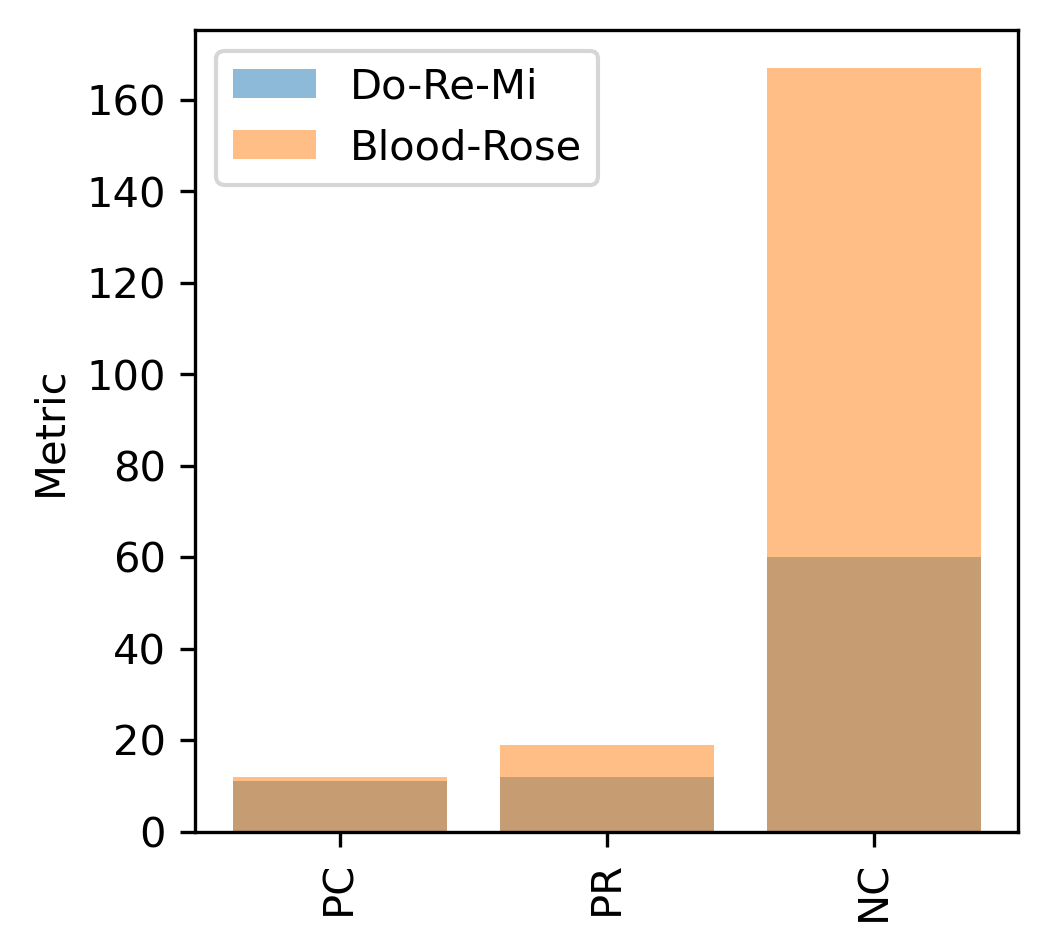
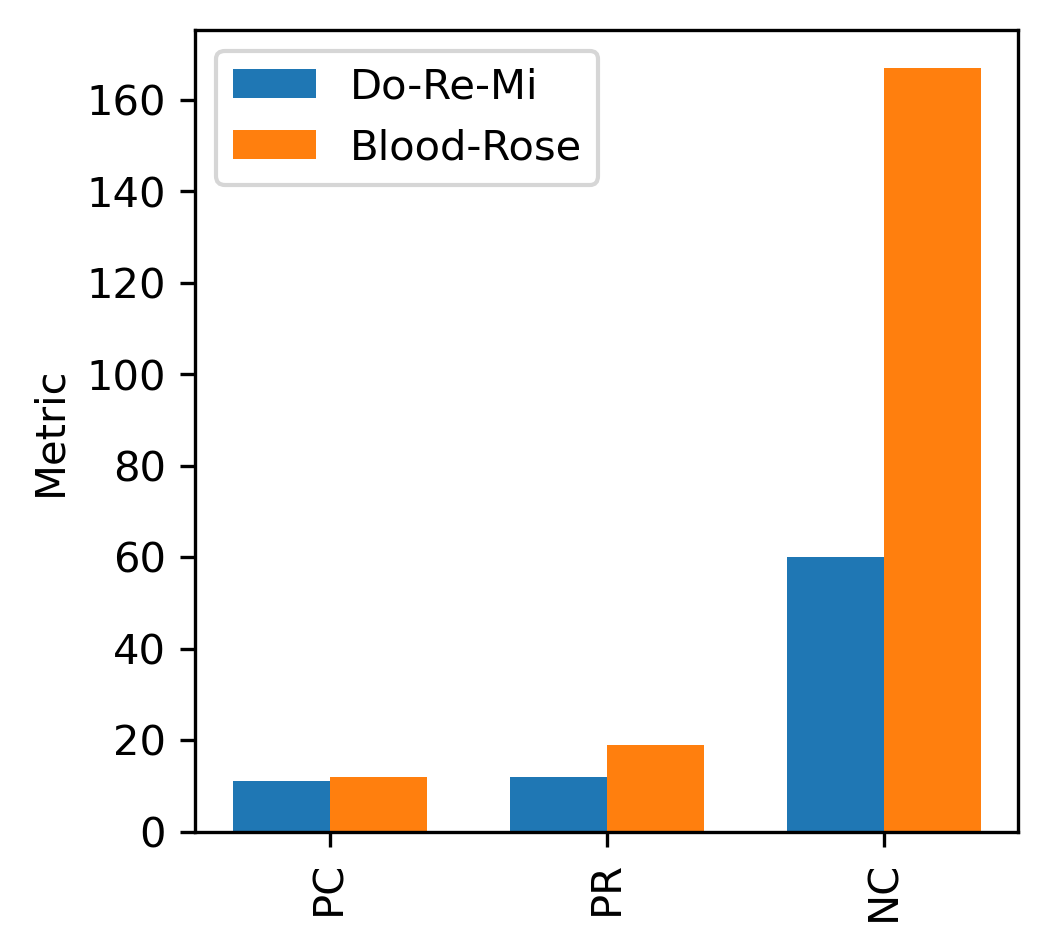
código feito

diff --git a/code/evaluator.py b/code/evaluator.py
@@ -148,23 +148,23 @@ class Evaluator:
         # Pitch based
         pc = pitch_count(melody_pitches)
         pr = pitch_range(melody_pitches)
-        api = get_average_pitch_intervals(melody_pitches)
+        pis = get_average_pitch_intervals(melody_pitches)
           
         # Rythm based
         nc = note_count(melody_pitches)
-        aioi = get_inter_onset_intervals(melody)
+        iois = get_inter_onset_intervals(melody)
       
-        return pc, pr, api, nc, aioi
+        return pc, pr, pis, nc, iois
     
     def set_originals_metrics(self, filename, name):
         
         original_melody = encode(m21.converter.parse(INPUTS_DIR + filename))
-        pc_final, pr_final, api_final, nc_final, aioi_final = self.calc_metrics(original_melody)
+        pc_final, pr_final, pis_final, nc_final, iois_final = self.calc_metrics(original_melody)
         self.metrics_originals[name] = {'pc': pc_final,
                                       'pr': pr_final,
-                                      'api': api_final,
+                                      'pi': pis_final,
                                       'nc': nc_final,
-                                      'aioi': aioi_final}
+                                      'ioi': iois_final}
     
     def get_iter_melodies(self, results_dir):
         """Get input and predicted melodies from the co-generation iterations and the final result melody.
@@ -202,77 +202,82 @@ class Evaluator:
     def set_iter_metrics_s_corr(self, results_dir, results_name):
         
         input_melodies, predicted_melodies, final_melody = self.get_iter_melodies(results_dir)
-        self.metrics_inputs_s_corr[results_name] = {'pc': [], 'pr': [], 'api': [], 'nc': [], 'aioi': []}
-        self.metrics_predictions_s_corr[results_name] = {'pc': [], 'pr': [], 'api': [], 'nc': [], 'aioi': []}
-        self.metrics_finals_s_corr[results_name] = {'pc': 0, 'pr': 0, 'api': [], 'nc': 0, 'aioi': []}
+        self.metrics_inputs_s_corr[results_name] = {'pc': [], 'pr': [], 'pi': [], 'nc': [], 'ioi': []}
+        self.metrics_predictions_s_corr[results_name] = {'pc': [], 'pr': [], 'pi': [], 'nc': [], 'ioi': []}
+        self.metrics_finals_s_corr[results_name] = {'pc': 0, 'pr': 0, 'pi': [], 'nc': 0, 'ioi': []}
         
         
         for i in range(len(input_melodies)):
-            pc_input, pr_input, api_input, nc_input, aioi_input = self.calc_metrics(input_melodies[i])
-            pc_predicted, pr_predicted, api_predicted, nc_predicted, aioi_predicted = self.calc_metrics(predicted_melodies[i])
+            pc_input, pr_input, pis_input, nc_input, iois_input = self.calc_metrics(input_melodies[i])
+            pc_predicted, pr_predicted, pis_predicted, nc_predicted, iois_predicted = self.calc_metrics(predicted_melodies[i])
             
             # guardar métricas
             self.metrics_inputs_s_corr[results_name]['pc'].append(pc_input)
             self.metrics_inputs_s_corr[results_name]['pr'].append(pr_input)
-            self.metrics_inputs_s_corr[results_name]['api'].append(api_input)
+            self.metrics_inputs_s_corr[results_name]['pi'].append(pis_input)
             self.metrics_inputs_s_corr[results_name]['nc'].append(nc_input)
-            self.metrics_inputs_s_corr[results_name]['aioi'].append(aioi_input)
+            self.metrics_inputs_s_corr[results_name]['ioi'].append(iois_input)
             
             self.metrics_predictions_s_corr[results_name]['pc'].append(pc_predicted)
             self.metrics_predictions_s_corr[results_name]['pr'].append(pr_predicted)
-            self.metrics_predictions_s_corr[results_name]['api'].append(api_predicted)
+            self.metrics_predictions_s_corr[results_name]['pi'].append(pis_predicted)
             self.metrics_predictions_s_corr[results_name]['nc'].append(nc_predicted)
-            self.metrics_predictions_s_corr[results_name]['aioi'].append(aioi_predicted)
+            self.metrics_predictions_s_corr[results_name]['ioi'].append(iois_predicted)
         
-        pc_final, pr_final, api_final, nc_final, aioi_final = self.calc_metrics(final_melody)
+        pc_final, pr_final, pis_final, nc_final, iois_final = self.calc_metrics(final_melody)
         self.metrics_finals_s_corr[results_name]['pc'] = pc_final
         self.metrics_finals_s_corr[results_name]['pr'] = pr_final
-        self.metrics_finals_s_corr[results_name]['api'] = api_final
+        self.metrics_finals_s_corr[results_name]['pi'] = pis_final
         self.metrics_finals_s_corr[results_name]['nc'] = nc_final
-        self.metrics_finals_s_corr[results_name]['aioi'] = aioi_final
+        self.metrics_finals_s_corr[results_name]['ioi'] = iois_final
     
     def set_iter_metrics_c_corr(self, results_dir, results_name):
         
         input_melodies, predicted_melodies, final_melody = self.get_iter_melodies(results_dir)
-        self.metrics_inputs_c_corr[results_name] = {'pc': [], 'pr': [], 'api': [], 'nc': [], 'aioi': []}
-        self.metrics_predictions_c_corr[results_name] = {'pc': [], 'pr': [], 'api': [], 'nc': [], 'aioi': []}
-        self.metrics_finals_c_corr[results_name] = {'pc': 0, 'pr': 0, 'api': [], 'nc': 0, 'aioi': []}
+        self.metrics_inputs_c_corr[results_name] = {'pc': [], 'pr': [], 'pi': [], 'nc': [], 'ioi': []}
+        self.metrics_predictions_c_corr[results_name] = {'pc': [], 'pr': [], 'pi': [], 'nc': [], 'ioi': []}
+        self.metrics_finals_c_corr[results_name] = {'pc': 0, 'pr': 0, 'pi': [], 'nc': 0, 'ioi': []}
         
         for i in range(len(input_melodies)):
-            pc_input, pr_input, api_input, nc_input, aioi_input = self.calc_metrics(input_melodies[i])
-            pc_predicted, pr_predicted, api_predicted, nc_predicted, aioi_predicted = self.calc_metrics(predicted_melodies[i])
+            pc_input, pr_input, pis_input, nc_input, iois_input = self.calc_metrics(input_melodies[i])
+            pc_predicted, pr_predicted, pis_predicted, nc_predicted, iois_predicted = self.calc_metrics(predicted_melodies[i])
             
             # guardar métricas
             self.metrics_inputs_c_corr[results_name]['pc'].append(pc_input)
             self.metrics_inputs_c_corr[results_name]['pr'].append(pr_input)
-            self.metrics_inputs_c_corr[results_name]['api'].append(api_input)
+            self.metrics_inputs_c_corr[results_name]['pi'].append(pis_input)
             self.metrics_inputs_c_corr[results_name]['nc'].append(nc_input)
-            self.metrics_inputs_c_corr[results_name]['aioi'].append(aioi_input)
+            self.metrics_inputs_c_corr[results_name]['ioi'].append(iois_input)
             
             self.metrics_predictions_c_corr[results_name]['pc'].append(pc_predicted)
             self.metrics_predictions_c_corr[results_name]['pr'].append(pr_predicted)
-            self.metrics_predictions_c_corr[results_name]['api'].append(api_predicted)
+            self.metrics_predictions_c_corr[results_name]['pi'].append(pis_predicted)
             self.metrics_predictions_c_corr[results_name]['nc'].append(nc_predicted)
-            self.metrics_predictions_c_corr[results_name]['aioi'].append(aioi_predicted)
+            self.metrics_predictions_c_corr[results_name]['ioi'].append(iois_predicted)
         
-        pc_final, pr_final, api_final, nc_final, aioi_final = self.calc_metrics(final_melody)
+        pc_final, pr_final, pis_final, nc_final, iois_final = self.calc_metrics(final_melody)
         self.metrics_finals_c_corr[results_name]['pc'] = pc_final
         self.metrics_finals_c_corr[results_name]['pr'] = pr_final
-        self.metrics_finals_c_corr[results_name]['api'] = api_final
+        self.metrics_finals_c_corr[results_name]['pi'] = pis_final
         self.metrics_finals_c_corr[results_name]['nc'] = nc_final
-        self.metrics_finals_c_corr[results_name]['aioi'] = aioi_final
+        self.metrics_finals_c_corr[results_name]['ioi'] = iois_final
     
     def plot_originals_absolute_metrics(self):
         
         plt.figure(figsize=(3.54,3.54), dpi=300)
-            
+        
+        ind = np.arange(3)
+        width = 0.35
+        
+        i = 0
         for song_name, metrics in self.metrics_originals.items():
             
-            plt.bar(["PC", "PR", "NC"], [metrics['pc'], metrics['pr'], metrics['nc']], label=song_name, alpha=0.5)
-            plt.xticks(rotation=90)
-            plt.ylabel("Metric", fontsize=10)
-            plt.legend()
+            plt.bar(ind+width*i, [metrics['pc'], metrics['pr'], metrics['nc']], label=song_name, width=width)
+            i += 1
 
+        plt.xticks(ind + width / 2, labels=["PC", "PR", "NC"], rotation=90)
+        plt.ylabel("Metric", fontsize=10)
+        plt.legend()
         plt.savefig(IMAGES_DIR + 'originals_absolute_metrics.png', bbox_inches='tight')
         plt.show()
         
@@ -287,21 +292,21 @@ class Evaluator:
         aiois = []
 
         for song_name, metrics in self.metrics_originals.items():
-            apis.append(metrics['api'])
-            aiois.append(metrics['aioi'])
+            apis.append(metrics['pi'])
+            aiois.append(metrics['ioi'])
             song_names.append(song_name)
         
         axs[0].boxplot(apis)
-        axs[0].set_title("Average Pitch Interval")
+        axs[0].set_title("Pitch Intervals")
         plt.sca(axs[0])
         plt.xticks(np.arange(1, num_songs+1), song_names, rotation=90)
-        plt.ylabel("API", fontsize=10)
+        plt.ylabel("PI", fontsize=10)
         
         axs[1].boxplot(aiois)
-        axs[1].set_title("Average Inter-Onset-Interval")
+        axs[1].set_title("Inter-Onset-Intervals")
         plt.sca(axs[1])
         plt.xticks(np.arange(1, num_songs+1), song_names, rotation=90)
-        plt.ylabel("AIOI", fontsize=10)
+        plt.ylabel("IOI", fontsize=10)
         
         plt.savefig(IMAGES_DIR + 'originals_intra_set_metrics.png', bbox_inches='tight')
         plt.show()
@@ -385,9 +390,9 @@ class Evaluator:
                 df = df.append(df_to_append_input)
                 df = df.append(df_to_append_predicted)
             
-            if metric_name == "api":
+            if metric_name == "pi":
                 df = df.astype({'Iteration': 'int64', 'Melody Type': 'object', metric_name: 'int64'})
-            elif metric_name == "aioi":
+            elif metric_name == "ioi":
                 df = df.astype({'Iteration': 'int64', 'Melody Type': 'object', metric_name: 'float64'})
             
             sns.boxplot(x="Iteration", y=metric_name, hue="Melody Type", data=df, notch=True, ax=axs[n])
@@ -438,9 +443,9 @@ class Evaluator:
                 df = df.append(df_to_append_input)
                 df = df.append(df_to_append_predicted)
             
-            if metric_name == "api":
+            if metric_name == "pi":
                 df = df.astype({'Iteration': 'int64', 'Melody Type': 'object', metric_name: 'int64'})
-            elif metric_name == "aioi":
+            elif metric_name == "ioi":
                 df = df.astype({'Iteration': 'int64', 'Melody Type': 'object', metric_name: 'float64'})
             
             sns.boxplot(x="Iteration", y=metric_name, hue="Melody Type", data=df, notch=True, ax=axs[n])
@@ -471,12 +476,13 @@ if __name__ == "__main__":
     ev.plot_iter_absolute_metric_s_corr("pr")
     ev.plot_iter_absolute_metric_s_corr("nc")
     
-    ev.plot_iter_intra_set_metric_s_corr("api")
-    ev.plot_iter_intra_set_metric_s_corr("aioi")
+    ev.plot_iter_intra_set_metric_s_corr("pi")
+    ev.plot_iter_intra_set_metric_s_corr("ioi")
     
     ev.plot_iter_absolute_metric_c_corr("pc")
     ev.plot_iter_absolute_metric_c_corr("pr")
     ev.plot_iter_absolute_metric_c_corr("nc")
     
-    ev.plot_iter_intra_set_metric_c_corr("api")
-    ev.plot_iter_intra_set_metric_c_corr("aioi")
+    ev.plot_iter_intra_set_metric_c_corr("pi")
+    ev.plot_iter_intra_set_metric_c_corr("ioi")
+    
